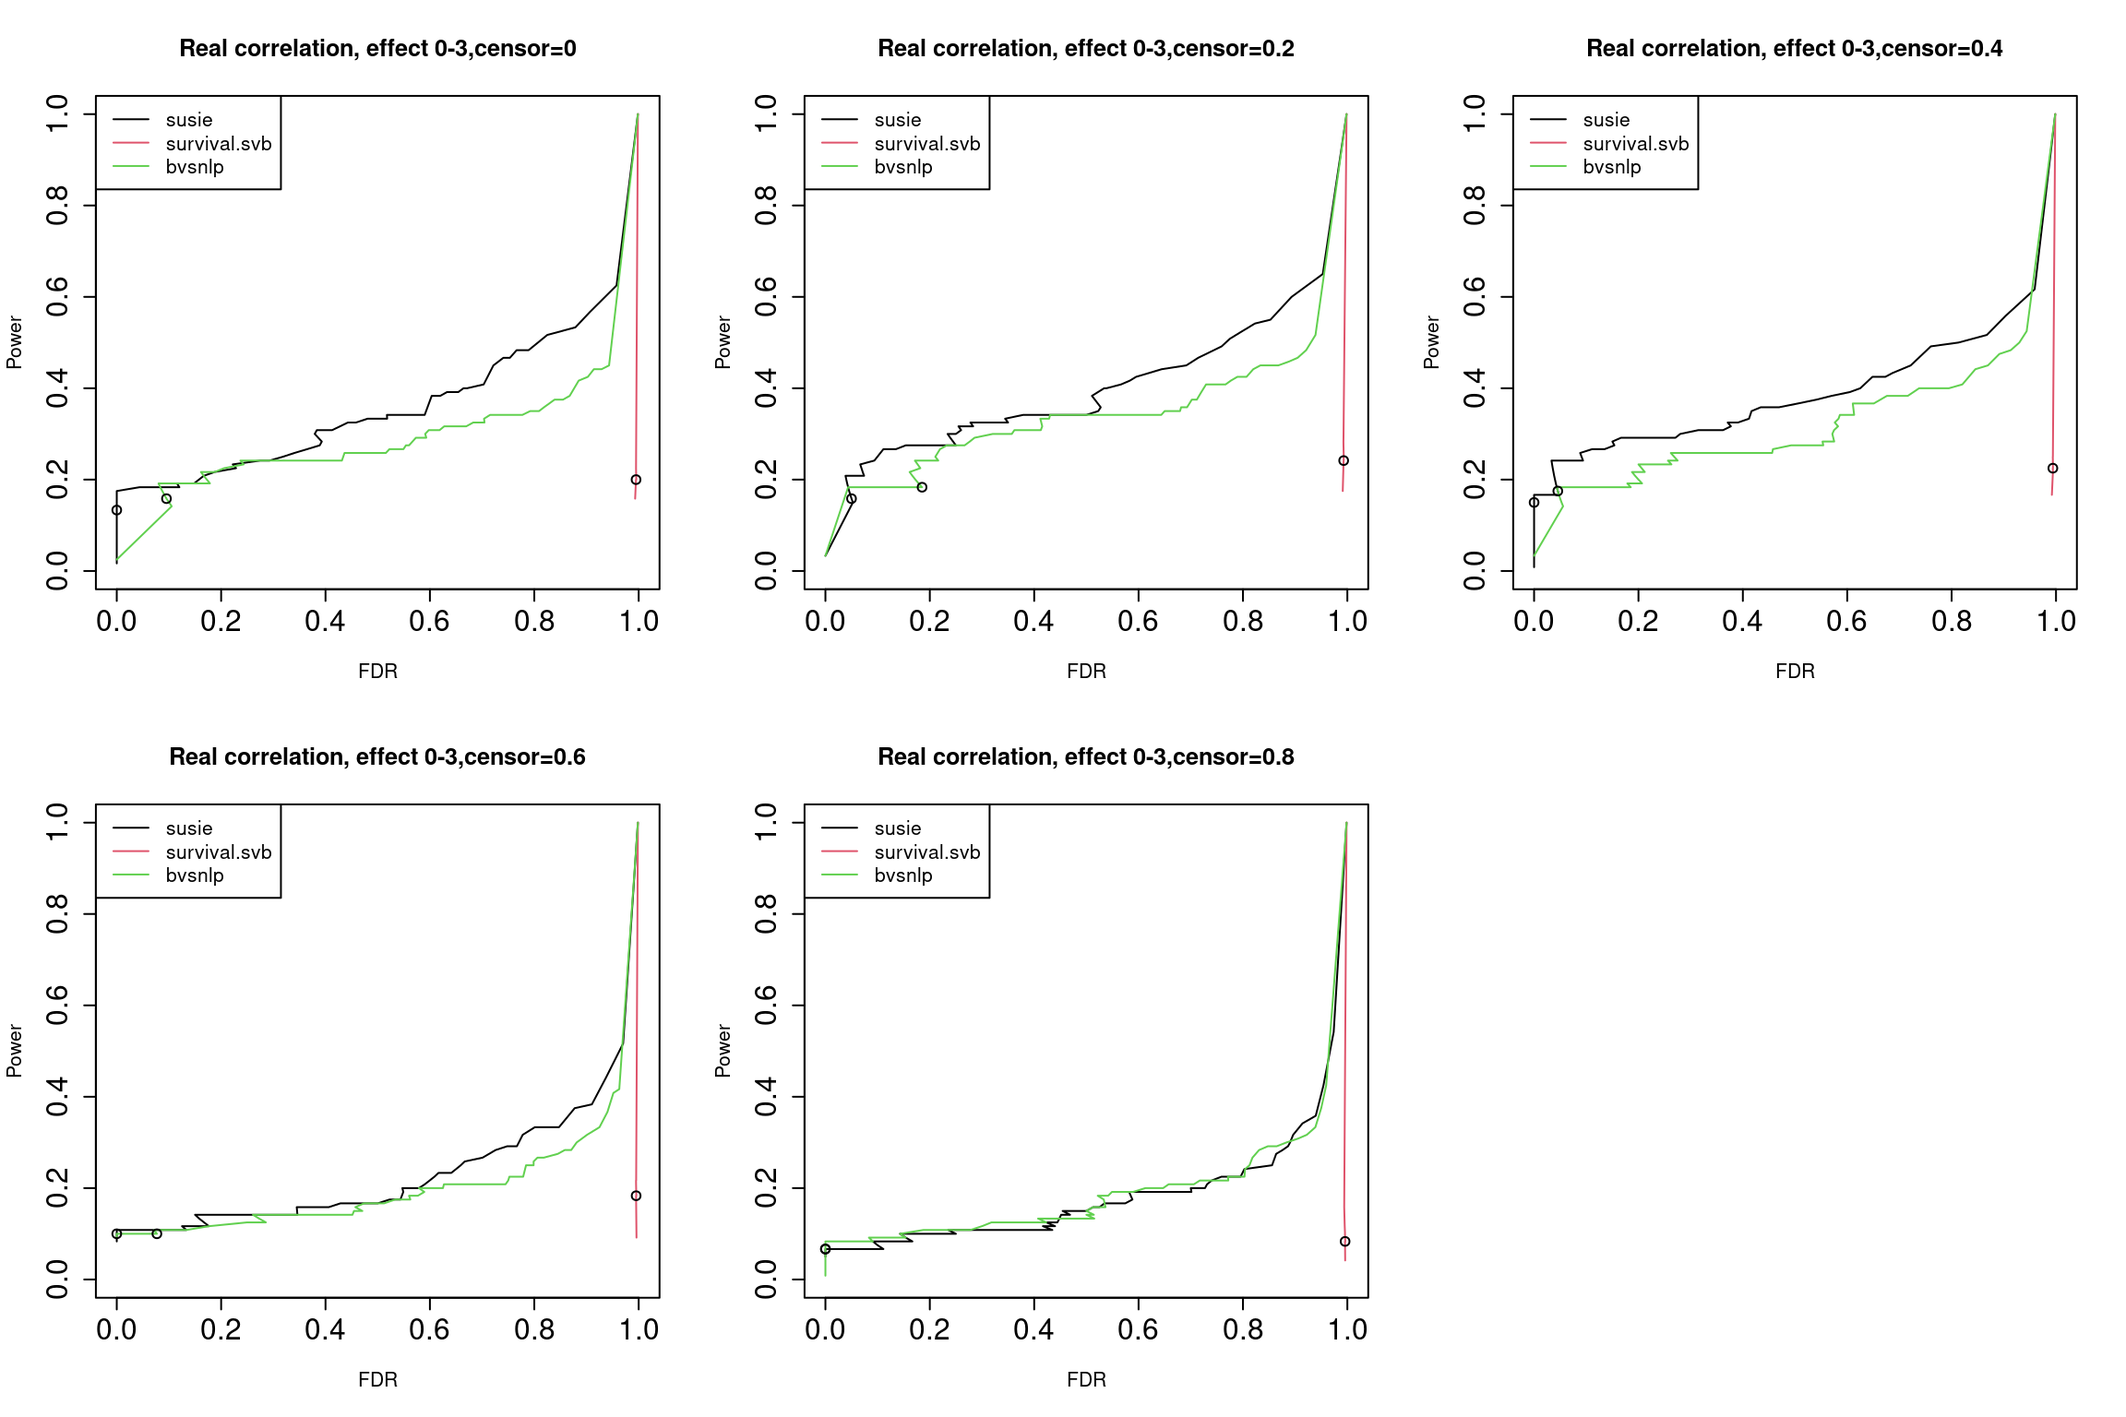
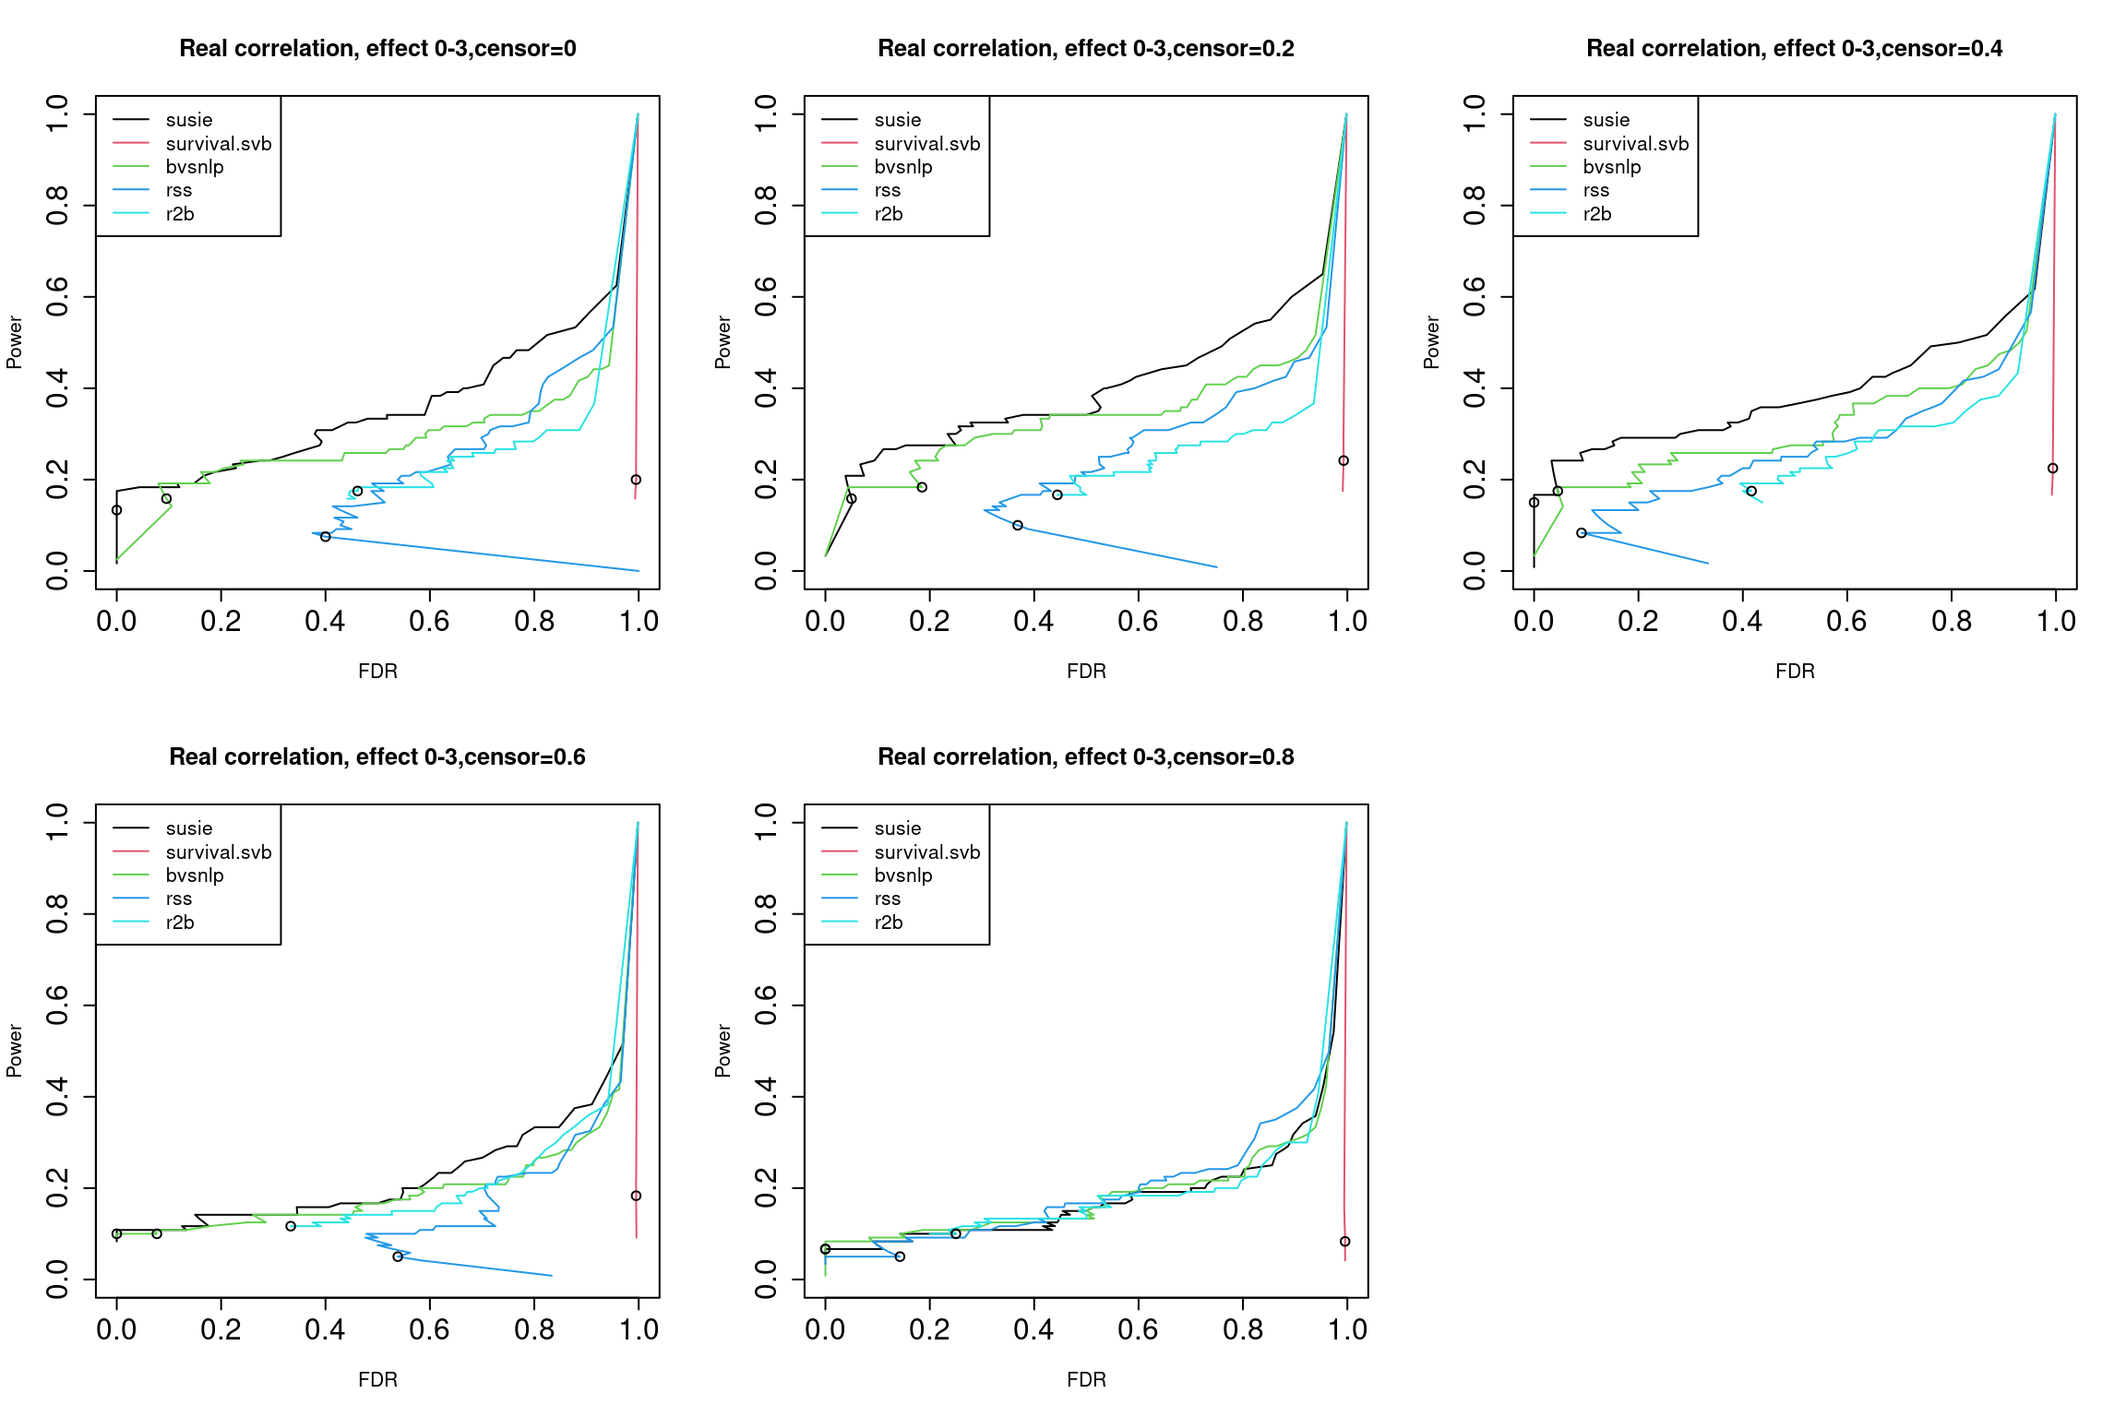
Build site.

diff --git a/docs/gtex_10iter.html b/docs/gtex_10iter.html
@@ -551,15 +551,15 @@ code/post_summary.R
 <div class="panel panel-default">
 <div class="panel-heading">
 <p class="panel-title">
-<a data-toggle="collapse" data-parent="#workflowr-checks" href="#strongRepositoryversionstrongahrefhttpsgithubcomyunqiyang0215survivalsusietreed8a12478dfc227483edbde60a6d9d625075ed738targetblankd8a1247a">
+<a data-toggle="collapse" data-parent="#workflowr-checks" href="#strongRepositoryversionstrongahrefhttpsgithubcomyunqiyang0215survivalsusietree17c31e60155c2c135f04ca49f0822cdf735434bbtargetblank17c31e6a">
 <span class="glyphicon glyphicon-ok text-success"
 aria-hidden="true"></span> <strong>Repository version:</strong>
-<a href="https://github.com/yunqiyang0215/survival-susie/tree/d8a12478dfc227483edbde60a6d9d625075ed738" target="_blank">d8a1247</a>
+<a href="https://github.com/yunqiyang0215/survival-susie/tree/17c31e60155c2c135f04ca49f0822cdf735434bb" target="_blank">17c31e6</a>
 </a>
 </p>
 </div>
 <div
[2 lines of base64/hex data omitted]
 class="panel-collapse collapse">
 <div class="panel-body">
 <p>
@@ -569,7 +569,7 @@ reproducibility.
 </p>
 <p>
 The results in this page were generated with repository version
-<a href="https://github.com/yunqiyang0215/survival-susie/tree/d8a12478dfc227483edbde60a6d9d625075ed738" target="_blank">d8a1247</a>.
+<a href="https://github.com/yunqiyang0215/survival-susie/tree/17c31e60155c2c135f04ca49f0822cdf735434bb" target="_blank">17c31e6</a>.
 See the <em>Past versions</em> tab to see a history of the changes made
 to the R Markdown and HTML files.
 </p>
@@ -638,6 +638,40 @@ Message
 Rmd
 </td>
 <td>
+<a href="https://github.com/yunqiyang0215/survival-susie/blob/17c31e60155c2c135f04ca49f0822cdf735434bb/analysis/gtex_10iter.Rmd" target="_blank">17c31e6</a>
+</td>
+<td>
+yunqi yang
+</td>
+<td>
+2024-03-11
+</td>
+<td>
+wflow_publish("analysis/gtex_10iter.Rmd")
+</td>
+</tr>
+<tr>
+<td>
+html
+</td>
+<td>
+<a href="https://rawcdn.githack.com/yunqiyang0215/survival-susie/9bbabc9a1ebb1e6af4876bab13753e1693ce74c5/docs/gtex_10iter.html" target="_blank">9bbabc9</a>
+</td>
+<td>
+yunqi yang
+</td>
+<td>
+2024-03-11
+</td>
+<td>
+Build site.
+</td>
+</tr>
+<tr>
+<td>
+Rmd
+</td>
+<td>
 <a href="https://github.com/yunqiyang0215/survival-susie/blob/d8a12478dfc227483edbde60a6d9d625075ed738/analysis/gtex_10iter.Rmd" target="_blank">d8a1247</a>
 </td>
 <td>
@@ -687,20 +721,64 @@ for (i in 1:5){
   res.susie = calculate_tpr_vs_fdr(pip.susie, is_effect, ts)
   res.svb = calculate_tpr_vs_fdr(pip.survsvb, is_effect, ts)
   res.bvsnlp = calculate_tpr_vs_fdr(pip.bvsnlp, is_effect, ts)
+  res.rss = calculate_tpr_vs_fdr(pip.rss, is_effect, ts)
+  res.r2b = calculate_tpr_vs_fdr(pip.r2b, is_effect, ts)
   
   plot(res.susie[,2], res.susie[,1], type = &quot;l&quot;, xlim = c(0,1), ylim = c(0, 1), xlab = &quot;FDR&quot;, ylab = &quot;Power&quot;,
        main = paste0(&quot;Real correlation, effect 0-3&quot;, &quot;,censor=&quot;, censor_lvl[i]))
   lines(res.svb[,2], res.svb[,1], type = &quot;l&quot;, col = 2)
   lines(res.bvsnlp[,2], res.bvsnlp[,1], type = &quot;l&quot;, col = 3)
+  lines(res.rss[,2], res.rss[,1], type = &quot;l&quot;, col = 4)
+  lines(res.r2b[,2], res.r2b[,1], type = &quot;l&quot;, col = 5)
   
   points(res.susie[96,2], res.susie[96, 1])
   points(res.svb[96,2], res.svb[96, 1])
   points(res.bvsnlp[96,2], res.bvsnlp[96, 1])
+  points(res.rss[96,2], res.rss[96, 1])
+  points(res.r2b[96,2], res.r2b[96, 1])
   
-  legend(&quot;topleft&quot;, legend = c(&quot;susie&quot;, &quot;survival.svb&quot;, &quot;bvsnlp&quot;), col = c(1,2,3), lty = 1)
+  legend(&quot;topleft&quot;, legend = c(&quot;susie&quot;, &quot;survival.svb&quot;, &quot;bvsnlp&quot;, &quot;rss&quot;, &quot;r2b&quot;), col = c(1,2,3,4,5), lty = 1)
+  
 }</code></pre>
-<p><img src="figure/gtex_10iter.Rmd/unnamed-chunk-3-1.png" width="1152" style="display: block; margin: auto;" />
-The dots indicate PIP threshold = 0.95</p>
+<p><img src="figure/gtex_10iter.Rmd/unnamed-chunk-3-1.png" width="1152" style="display: block; margin: auto;" /></p>
+<p>
+<button type="button" class="btn btn-default btn-xs btn-workflowr btn-workflowr-fig" data-toggle="collapse" data-target="#fig-unnamed-chunk-3-1">
+Past versions of unnamed-chunk-3-1.png
+</button>
+</p>
+<div id="fig-unnamed-chunk-3-1" class="collapse">
+<div class="table-responsive">
+<table class="table table-condensed table-hover">
+<thead>
+<tr>
+<th>
+Version
+</th>
+<th>
+Author
+</th>
+<th>
+Date
+</th>
+</tr>
+</thead>
+<tbody>
+<tr>
+<td>
+<a href="https://github.com/yunqiyang0215/survival-susie/blob/9bbabc9a1ebb1e6af4876bab13753e1693ce74c5/docs/figure/gtex_10iter.Rmd/unnamed-chunk-3-1.png" target="_blank">9bbabc9</a>
+</td>
+<td>
+yunqi yang
+</td>
+<td>
+2024-03-11
+</td>
+</tr>
+</tbody>
+</table>
+</div>
+</div>
+<p>The dots indicate PIP threshold = 0.95</p>
 </div>
 <div id="results-using-independent-x-without-data-from-null-model."
 class="section level3">
@@ -708,7 +786,7 @@ class="section level3">
 <pre class="r"><code>par(mfrow = c(2,3), cex.axis = 1.5)
 censor_lvl = c(0, 0.2, 0.4, 0.6, 0.8)
 for (i in 1:5){
-  indx = which(susie$simulate.cor_type == &quot;real&quot; &amp; susie$simulate.censor_lvl == censor_lvl[i])
+  indx = which(susie$simulate.cor_type == &quot;independent&quot; &amp; susie$simulate.censor_lvl == censor_lvl[i])
   pip.susie = unlist(lapply(indx, function(x) susie$susie.pip[[x]]))
   pip.survsvb = unlist(lapply(indx, function(x) svb$svb.pip[[x]]))
   pip.bvsnlp = unlist(lapply(indx, function(x) bvsnlp$bvsnlp.pip[[x]]))
@@ -739,183 +817,44 @@ for (i in 1:5){
   legend(&quot;topleft&quot;, legend = c(&quot;susie&quot;, &quot;survival.svb&quot;, &quot;bvsnlp&quot;, &quot;rss&quot;, &quot;r2b&quot;), col = c(1,2,3,4,5), lty = 1)
 }</code></pre>
 <p><img src="figure/gtex_10iter.Rmd/unnamed-chunk-4-1.png" width="1152" style="display: block; margin: auto;" /></p>
-<p>The dots indicate PIP threshold = 0.95.</p>
+<p>
+<button type="button" class="btn btn-default btn-xs btn-workflowr btn-workflowr-fig" data-toggle="collapse" data-target="#fig-unnamed-chunk-4-1">
+Past versions of unnamed-chunk-4-1.png
+</button>
+</p>
+<div id="fig-unnamed-chunk-4-1" class="collapse">
+<div class="table-responsive">
+<table class="table table-condensed table-hover">
+<thead>
+<tr>
+<th>
+Version
+</th>
+<th>
+Author
+</th>
+<th>
+Date
+</th>
+</tr>
+</thead>
+<tbody>
+<tr>
+<td>
+<a href="https://github.com/yunqiyang0215/survival-susie/blob/9bbabc9a1ebb1e6af4876bab13753e1693ce74c5/docs/figure/gtex_10iter.Rmd/unnamed-chunk-4-1.png" target="_blank">9bbabc9</a>
+</td>
+<td>
+yunqi yang
+</td>
+<td>
+2024-03-11
+</td>
+</tr>
+</tbody>
+</table>
 </div>
-<div id="results-using-independent-x-with-data-from-null-model."
-class="section level3">
-<h3>3. Results using independent X, with data from null model.</h3>
-<pre class="r"><code>par(mfrow = c(2,3),cex.axis = 1.5)
-censor_lvl = c(0, 0.2, 0.4, 0.6, 0.8)
-
-for (i in 1:5){
-    indx = which(susie$simulate.cor_type == &quot;independent&quot; &amp; susie$simulate.censor_lvl == censor_lvl[i])
-  pip.susie = unlist(lapply(indx, function(x) susie$susie.pip[[x]]))
-  pip.survsvb = unlist(lapply(indx, function(x) svb$svb.pip[[x]]))
-  pip.bvsnlp = unlist(lapply(indx, function(x) bvsnlp$bvsnlp.pip[[x]]))
-  pip.rss = unlist(lapply(indx, function(x) rss$rss.pip[[x]]))
-  pip.r2b = unlist(lapply(indx, function(x) r2b$r2b.pip[[x]]))
-  is_effect = unlist(lapply(indx, function(x) susie$simulate.is_effect[[x]]))
-  
-  ts = seq(from = 0, to = 1, by = 0.01)
-  res.susie = calculate_tpr_vs_fdr(pip.susie, is_effect, ts)
-  res.svb = calculate_tpr_vs_fdr(pip.survsvb, is_effect, ts)
-  res.bvsnlp = calculate_tpr_vs_fdr(pip.bvsnlp, is_effect, ts)
-  res.rss = calculate_tpr_vs_fdr(pip.rss, is_effect, ts)
-  res.r2b = calculate_tpr_vs_fdr(pip.r2b, is_effect, ts)
-  
-  plot(res.susie[,2], res.susie[,1], type = &quot;l&quot;, xlim = c(0,1), ylim = c(0, 1), xlab = &quot;FDR&quot;, ylab = &quot;Power&quot;,
-       main = paste0(&quot;Real correlation, effect 0-3&quot;, &quot;,censor=&quot;, censor_lvl[i]))
-  lines(res.svb[,2], res.svb[,1], type = &quot;l&quot;, col = 2)
-  lines(res.bvsnlp[,2], res.bvsnlp[,1], type = &quot;l&quot;, col = 3)
-  lines(res.rss[,2], res.rss[,1], type = &quot;l&quot;, col = 4)
-  lines(res.r2b[,2], res.r2b[,1], type = &quot;l&quot;, col = 5)
-  
-  points(res.susie[96,2], res.susie[96, 1])
-  points(res.svb[96,2], res.svb[96, 1])
-  points(res.bvsnlp[96,2], res.bvsnlp[96, 1])
-  points(res.rss[96,2], res.rss[96, 1])
-  points(res.r2b[96,2], res.r2b[96, 1])
-  
-  legend(&quot;topleft&quot;, legend = c(&quot;susie&quot;, &quot;survival.svb&quot;, &quot;bvsnlp&quot;, &quot;rss&quot;, &quot;r2b&quot;), col = c(1,2,3,4,5), lty = 1)
-}</code></pre>
-<p><img src="figure/gtex_10iter.Rmd/unnamed-chunk-5-1.png" width="960" style="display: block; margin: auto;" /></p>
-<p>The dots indicate PIP threshold = 0.95.</p>
 </div>
-<div id="realindependent-x-censoring-0.8." class="section level3">
-<h3>4. Real/independent X, censoring = 0.8.</h3>
-<p>For independent X, susie has ~1-1.5% less power than bvsnlp when fdr
-is around 0.1.</p>
-<pre class="r"><code>par(mfrow = c(1,2))
-censor_lvl = 0.8
-indx = which(susie$simulate.cor_type == &quot;real&quot; &amp; susie$simulate.censor_lvl == censor_lvl)
-pip.susie = unlist(lapply(indx, function(x) susie$susie.pip[[x]]))
-pip.bvsnlp = unlist(lapply(indx, function(x) bvsnlp$bvsnlp.pip[[x]]))
-is_effect = unlist(lapply(indx, function(x) susie$simulate.is_effect[[x]]))
-  
-ts = seq(from = 0, to = 1, by = 0.01)
-res.susie = calculate_tpr_vs_fdr(pip.susie, is_effect, ts)
-res.bvsnlp = calculate_tpr_vs_fdr(pip.bvsnlp, is_effect, ts)
-  
-  
-plot(res.susie[,2], res.susie[,1], type = &quot;l&quot;, xlim = c(0, 0.4), ylim = c(0,0.2), xlab = &quot;FDR&quot;, ylab = &quot;Power&quot;, main = paste0(&quot;Real X, effect 0-3&quot;, &quot;,censor=&quot;, censor_lvl))
-lines(res.bvsnlp[,2], res.bvsnlp[,1], type = &quot;l&quot;, col = 3)
-points(res.susie[96,2], res.susie[96, 1])
-points(res.bvsnlp[96,2], res.bvsnlp[96, 1])
-legend(&quot;topleft&quot;, legend = c(&quot;susie&quot;, &quot;bvsnlp&quot;), col = c(1,3), lty = 1)
-
-#####
-indx = which(susie$simulate.cor_type == &quot;independent&quot; &amp; susie$simulate.censor_lvl == censor_lvl)
-pip.susie = unlist(lapply(indx, function(x) susie$susie.pip[[x]]))
-pip.bvsnlp = unlist(lapply(indx, function(x) bvsnlp$bvsnlp.pip[[x]]))
-is_effect = unlist(lapply(indx, function(x) susie$simulate.is_effect[[x]]))
-  
-ts = seq(from = 0, to = 1, by = 0.01)
-res.susie = calculate_tpr_vs_fdr(pip.susie, is_effect, ts)
-res.bvsnlp = calculate_tpr_vs_fdr(pip.bvsnlp, is_effect, ts)
-  
-  
-plot(res.susie[,2], res.susie[,1], type = &quot;l&quot;, xlim = c(0, 0.15), xlab = &quot;FDR&quot;, ylab = &quot;Power&quot;, main = paste0(&quot;X independent, effect 0-3&quot;, &quot;,censor=&quot;, censor_lvl))
-lines(res.bvsnlp[,2], res.bvsnlp[,1], type = &quot;l&quot;, col = 3)
-points(res.susie[96,2], res.susie[96, 1])
-points(res.bvsnlp[96,2], res.bvsnlp[96, 1])
-legend(&quot;bottomright&quot;, legend = c(&quot;susie&quot;, &quot;bvsnlp&quot;), col = c(1,3), lty = 1)</code></pre>
-<p><img src="figure/gtex_10iter.Rmd/unnamed-chunk-6-1.png" width="768" style="display: block; margin: auto;" />
-### 5. Assess Susie CS</p>
-<p>Among the 1000 null data, susie only wrongly output 1 credible set as
-below:</p>
-<pre class="r"><code>indx = which(susie$simulate.num_effect == 0)
-res = lapply(indx, function(x) is.null(susie$susie.cs[[x]]$cs))
-which(res == FALSE)
-susie$susie.cs[[indx[756]]]$cs
-# integer(0)
-# NULL</code></pre>
-<pre class="r"><code>coverage = matrix(NA, ncol = 3, nrow = 5)
-censoring = c(0, 0.2, 0.4, 0.6, 0.8)
-colnames(coverage) = c(&quot;effect:1&quot;, &quot;effect:2&quot;, &quot;effect:3&quot;)
-rownames(coverage) = c(&quot;censor:0&quot;, &quot;censor:0.2&quot;, &quot;censor:0.4&quot;, &quot;censor:0.6&quot;, &quot;censor:0.8&quot;)
-for (i in 1:3){
-  for (j in 1:5){
-    dat_indx = which(susie$simulate.num_effect == i &amp; susie$simulate.censor_lvl == censoring[j] &amp; susie$simulate.cor_type == &quot;real&quot;)
-    coverage[j, i] = calculate_cs_coverage(dat_indx)
-  }
-}
-
-coverage
-#            effect:1 effect:2 effect:3
-# censor:0        NaN      NaN      NaN
-# censor:0.2      NaN      NaN      NaN
-# censor:0.4      NaN      NaN      NaN
-# censor:0.6      NaN      NaN      NaN
-# censor:0.8      NaN      NaN      NaN</code></pre>
-<pre class="r"><code>power_cs = matrix(NA, ncol = 3, nrow = 5)
-censoring = c(0, 0.2, 0.4, 0.6, 0.8)
-colnames(power_cs) = c(&quot;effect:1&quot;, &quot;effect:2&quot;, &quot;effect:3&quot;)
-rownames(power_cs) = c(&quot;censor:0&quot;, &quot;censor:0.2&quot;, &quot;censor:0.4&quot;, &quot;censor:0.6&quot;, &quot;censor:0.8&quot;)
-for (i in 1:3){
-  for (j in 1:5){
-    dat_indx = which(susie$simulate.num_effect == i &amp; susie$simulate.censor_lvl == censoring[j])
-    cs_effect = get_cs_effect(dat_indx, p = 1000)
-    is_effect = unlist(lapply(dat_indx, function(x) susie$simulate.is_effect[[x]]))
-    power = sum(cs_effect ==1 &amp; is_effect == 1)/sum(is_effect)
-    power_cs[j, i] = power
-  }
-}
-
-power_cs
-#            effect:1 effect:2 effect:3
-# censor:0          0        0        0
-# censor:0.2        0        0        0
-# censor:0.4        0        0        0
-# censor:0.6        0        0        0
-# censor:0.8        0        0        0</code></pre>
-<pre class="r"><code>plot(c(0, 0.2, 0.4, 0.6, 0.8), power_cs[,1], pch = 20, ylim = c(0.4, 0.9), lty = 3, type = &quot;b&quot;, xlab = &quot;Censoring level&quot;, ylab = &quot;Power of CSs&quot;)
-lines(c(0, 0.2, 0.4, 0.6, 0.8), power_cs[,2], pch = 20, col = 2, lty = 3, type = &quot;b&quot;)
-lines(c(0, 0.2, 0.4, 0.6, 0.8), power_cs[,3], pch = 20, col = 3, lty = 3, type = &quot;b&quot;)
-legend(&quot;topright&quot;, legend = c(&quot;1 effect&quot;, &quot;2 effects&quot;, &quot;3 effects&quot;), col = c(1, 2, 3), lty = 3)</code></pre>
-<p><img src="figure/gtex_10iter.Rmd/unnamed-chunk-10-1.png" width="384" style="display: block; margin: auto;" /></p>
-<pre class="r"><code>coverage = matrix(NA, ncol = 2, nrow = 5)
-censoring = c(0, 0.2, 0.4, 0.6, 0.8)
-cor_type = c(&quot;real&quot;, &quot;independent&quot;)
-colnames(coverage) = c(&quot;real correlation&quot;, &quot;independent&quot;)
-rownames(coverage) = c(&quot;censor:0&quot;, &quot;censor:0.2&quot;, &quot;censor:0.4&quot;, &quot;censor:0.6&quot;, &quot;censor:0.8&quot;)
-for (i in 1:2){
-  for (j in 1:5){
-    dat_indx = which(susie$simulate.num_effect != 0 &amp; susie$simulate.cor_type == cor_type[i] &amp; susie$simulate.censor_lvl == censoring[j])
-    coverage[j, i] = calculate_cs_coverage(dat_indx)
-  }
-}
-
-coverage
-#            real correlation independent
-# censor:0                NaN         NaN
-# censor:0.2              NaN         NaN
-# censor:0.4              NaN         NaN
-# censor:0.6              NaN         NaN
-# censor:0.8              NaN         NaN</code></pre>
-<pre class="r"><code>plot(c(0, 0.2, 0.4, 0.6, 0.8), coverage[,1], pch = 20, ylim = c(0.9, 1))
-points(c(0, 0.2, 0.4, 0.6, 0.8), coverage[,2])</code></pre>
-<p><img src="figure/gtex_10iter.Rmd/unnamed-chunk-12-1.png" width="672" style="display: block; margin: auto;" /></p>
-<pre class="r"><code>power_cs = matrix(NA, ncol = 2, nrow = 5)
-censoring = c(0, 0.2, 0.4, 0.6, 0.8)
-colnames(power_cs) = c(&quot;real correlation&quot;, &quot;independent&quot;)
-rownames(power_cs) = c(&quot;censor:0&quot;, &quot;censor:0.2&quot;, &quot;censor:0.4&quot;, &quot;censor:0.6&quot;, &quot;censor:0.8&quot;)
-for (i in 1:2){
-  for (j in 1:5){
-    dat_indx = which(susie$simulate.num_effect != 0 &amp; susie$simulate.cor_type == cor_type[i] &amp; susie$simulate.censor_lvl == censoring[j])
-    cs_effect = get_cs_effect(dat_indx, p = 1000)
-    is_effect = unlist(lapply(dat_indx, function(x) susie$simulate.is_effect[[x]]))
-    power = sum(cs_effect ==1 &amp; is_effect == 1)/sum(is_effect)
-    power_cs[j, i] = power
-  }
-}
-
-power_cs
-#            real correlation independent
-# censor:0                  0           0
-# censor:0.2                0           0
-# censor:0.4                0           0
-# censor:0.6                0           0
-# censor:0.8                0           0</code></pre>
+<p>The dots indicate PIP threshold = 0.95.</p>
 <br>
 <p>
 <button type="button" class="btn btn-default btn-workflowr btn-workflowr-sessioninfo" data-toggle="collapse" data-target="#workflowr-sessioninfo" style="display: block;">
